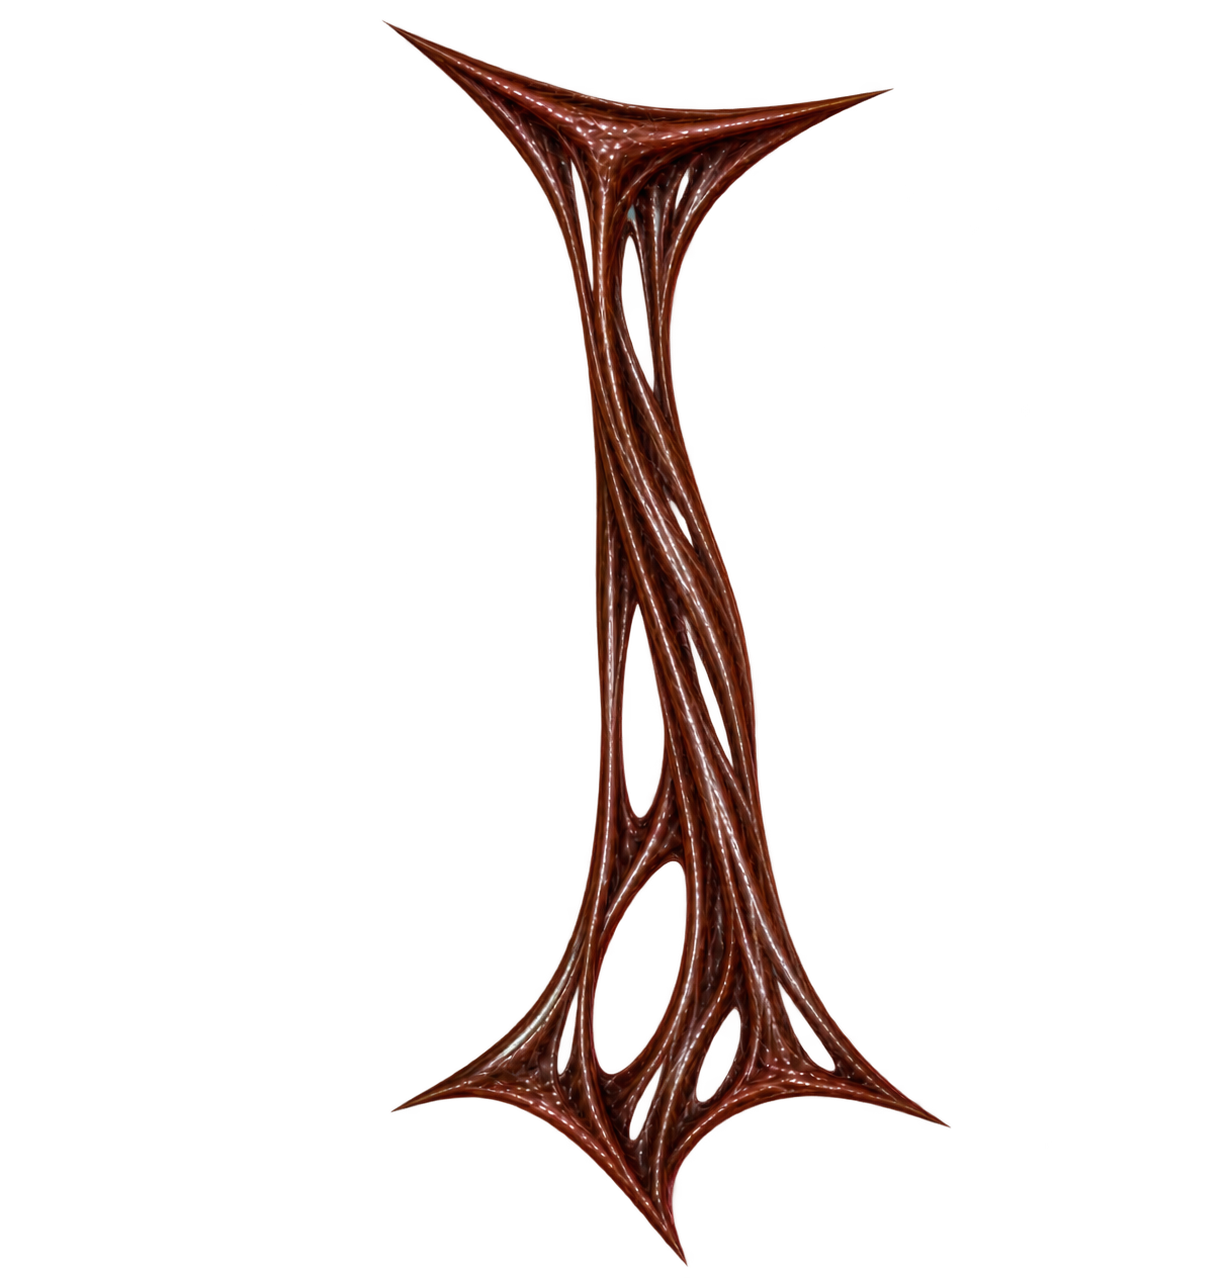
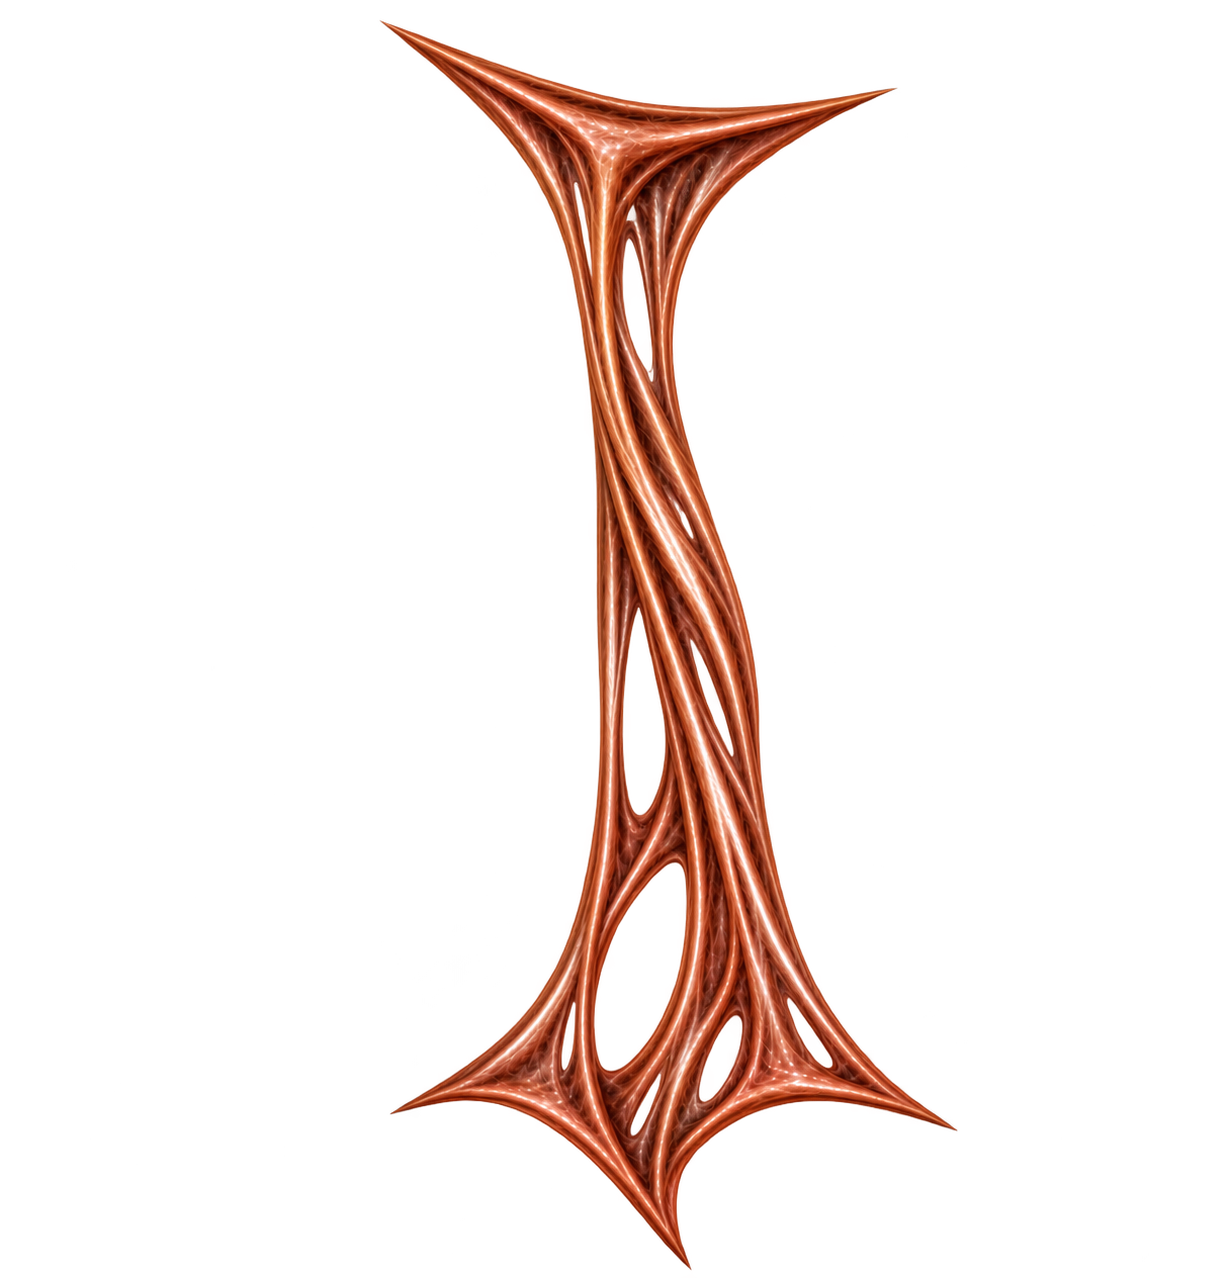
Realca volume das tres aderencias da biblioteca

Changed region(s): [[0.3089, 0.0305, 0.7724, 1.0], [0.3089, 0.0, 0.3398, 0.0305]]

diff --git a/app.html b/app.html
@@ -471,16 +471,16 @@
             <img src="assets/lesoes/diu-hormonal-referencia.png" alt="" />
             <span>DIU hormonal</span>
           </button>
-          <button class="modelo-lesao" type="button" data-modelo="assets/lesoes/aderencia-1-marrom-escuro.png?v=0187ce02" data-nome="Aderências 1" data-proporcao="1" data-sem-recorte="true" data-tamanho-inicial="75">
-            <img src="assets/lesoes/aderencia-1-marrom-escuro.png?v=0187ce02" alt="" style="object-fit: contain; border-radius: 0" />
+          <button class="modelo-lesao" type="button" data-modelo="assets/lesoes/aderencia-1-marrom-escuro.png?v=b54e5f4d" data-nome="Aderências 1" data-proporcao="1" data-sem-recorte="true" data-tamanho-inicial="75">
+            <img src="assets/lesoes/aderencia-1-marrom-escuro.png?v=b54e5f4d" alt="" style="object-fit: contain; border-radius: 0" />
             <span>Aderências 1</span>
           </button>
-          <button class="modelo-lesao" type="button" data-modelo="assets/lesoes/aderencia-2-marrom-escuro.png?v=9ebaf7f9" data-nome="Aderência 2" data-proporcao="0.9624413145539906" data-sem-recorte="true" data-tamanho-inicial="80">
-            <img src="assets/lesoes/aderencia-2-marrom-escuro.png?v=9ebaf7f9" alt="" style="object-fit: contain; border-radius: 0" />
+          <button class="modelo-lesao" type="button" data-modelo="assets/lesoes/aderencia-2-marrom-escuro.png?v=605beae8" data-nome="Aderência 2" data-proporcao="0.9624413145539906" data-sem-recorte="true" data-tamanho-inicial="80">
+            <img src="assets/lesoes/aderencia-2-marrom-escuro.png?v=605beae8" alt="" style="object-fit: contain; border-radius: 0" />
             <span>Aderência 2</span>
           </button>
-          <button class="modelo-lesao" type="button" data-modelo="assets/lesoes/aderencia-3-marrom-escuro.png?v=a479b041" data-nome="Aderência 3" data-proporcao="0.9624413145539906" data-sem-recorte="true" data-tamanho-inicial="70">
-            <img src="assets/lesoes/aderencia-3-marrom-escuro.png?v=a479b041" alt="" style="object-fit: contain; border-radius: 0" />
+          <button class="modelo-lesao" type="button" data-modelo="assets/lesoes/aderencia-3-marrom-escuro.png?v=bba75ab6" data-nome="Aderência 3" data-proporcao="0.9624413145539906" data-sem-recorte="true" data-tamanho-inicial="70">
+            <img src="assets/lesoes/aderencia-3-marrom-escuro.png?v=bba75ab6" alt="" style="object-fit: contain; border-radius: 0" />
             <span>Aderência 3</span>
           </button>
         </div>

diff --git a/ESPEC.md b/ESPEC.md
@@ -1,5 +1,7 @@
 # Especificação do MVP
 
+Relevo das aderências (18/10/2026): após aprovar o exemplo da Aderências 1, Daniel autorizou aplicar o acabamento às três aderências presentes na biblioteca e publicar. As imagens recebem contraste entre sombras marrons e reflexos nas fibras para maior volume aparente, com fundo transparente. Mantidos os nomes, tamanhos iniciais, proporções e endereços dos arquivos; identificadores de versão atualizados para carregar o novo acabamento. Imagens editadas com imagegen, usando a primeira aprovada como referência de acabamento para as demais.
+
 Integração aprovada da trompa sagital (18/10/2026): Daniel aprovou a emenda suavizada e autorizou incorporar e publicar a continuação fixa atrás do útero. O motor principal passa a usar `assets/trompa-sagital-fundo.png` nas máscaras locais de remoção do ramo anterior e sua sombra, mantendo o arco e a continuação aprovada. O corpo uterino é desenhado por cima. A captura sagital inclui a correção também no ângulo zero, para preservar a mesma aparência na tela, PNG e PDF. Esta decisão substitui o estado de prévia local das anotações abaixo.
 
 Emenda da continuação sagital (18/10/2026): Daniel aprovou o trajeto e o comportamento da continuação fixa e pediu suavização da emenda. A prévia aplica transparência gradual apenas na junção da faixa nova com o arco original, preservando curva e sobreposição. Conferência em oito posições passou. Alteração ainda local.
